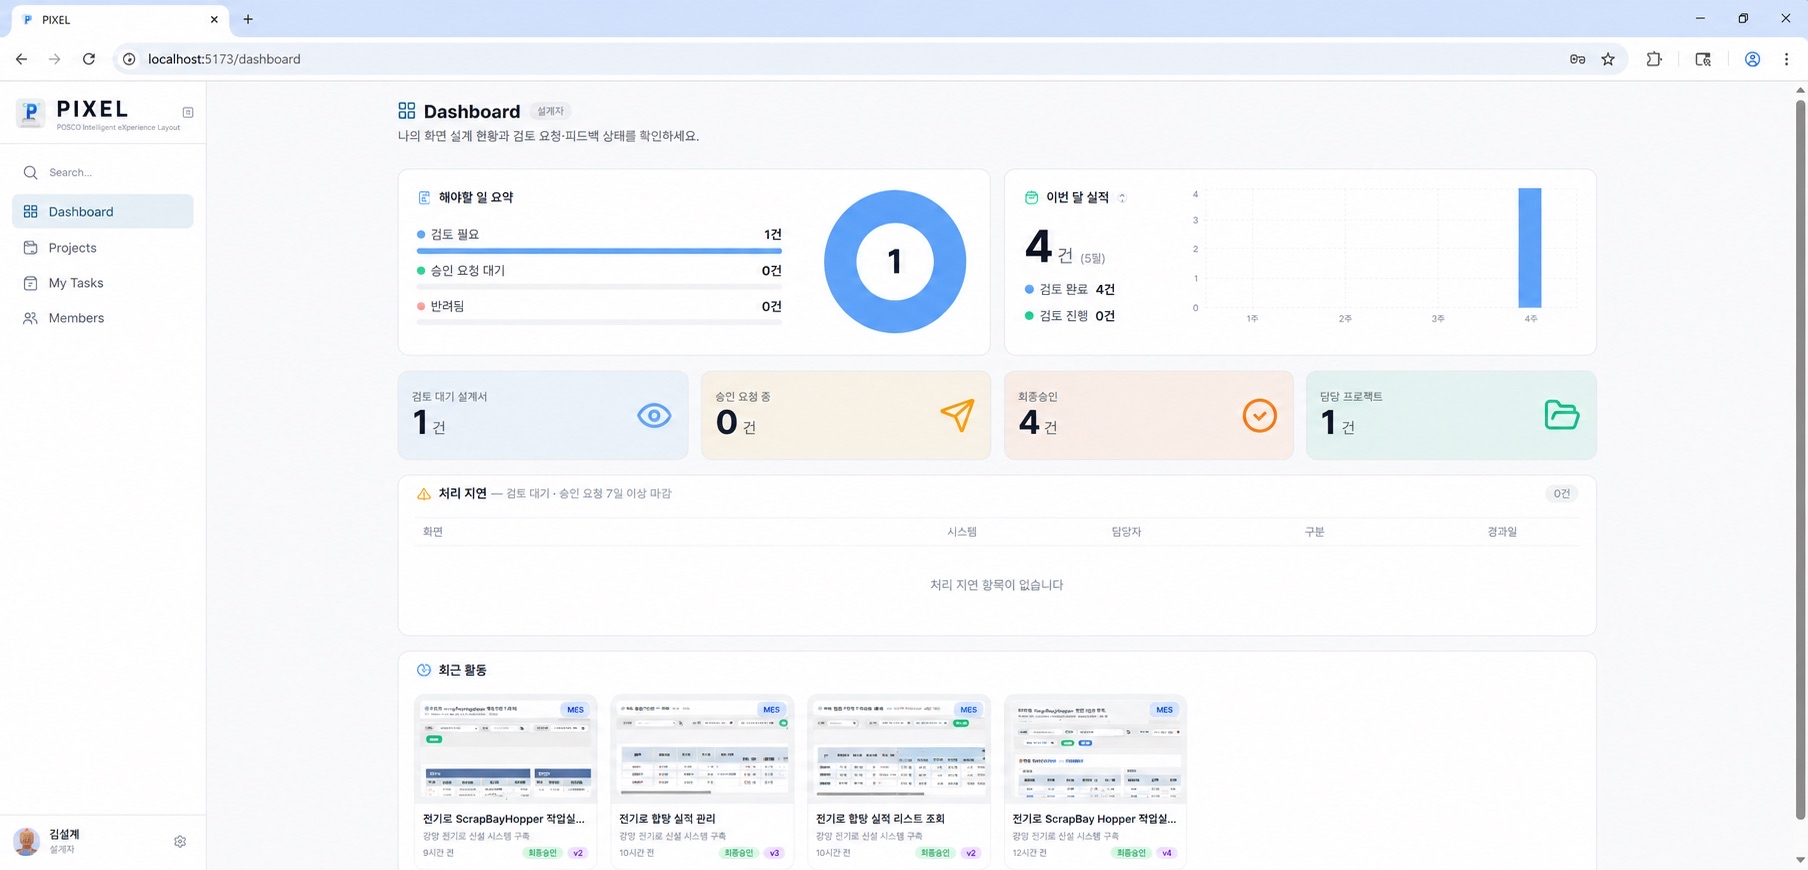
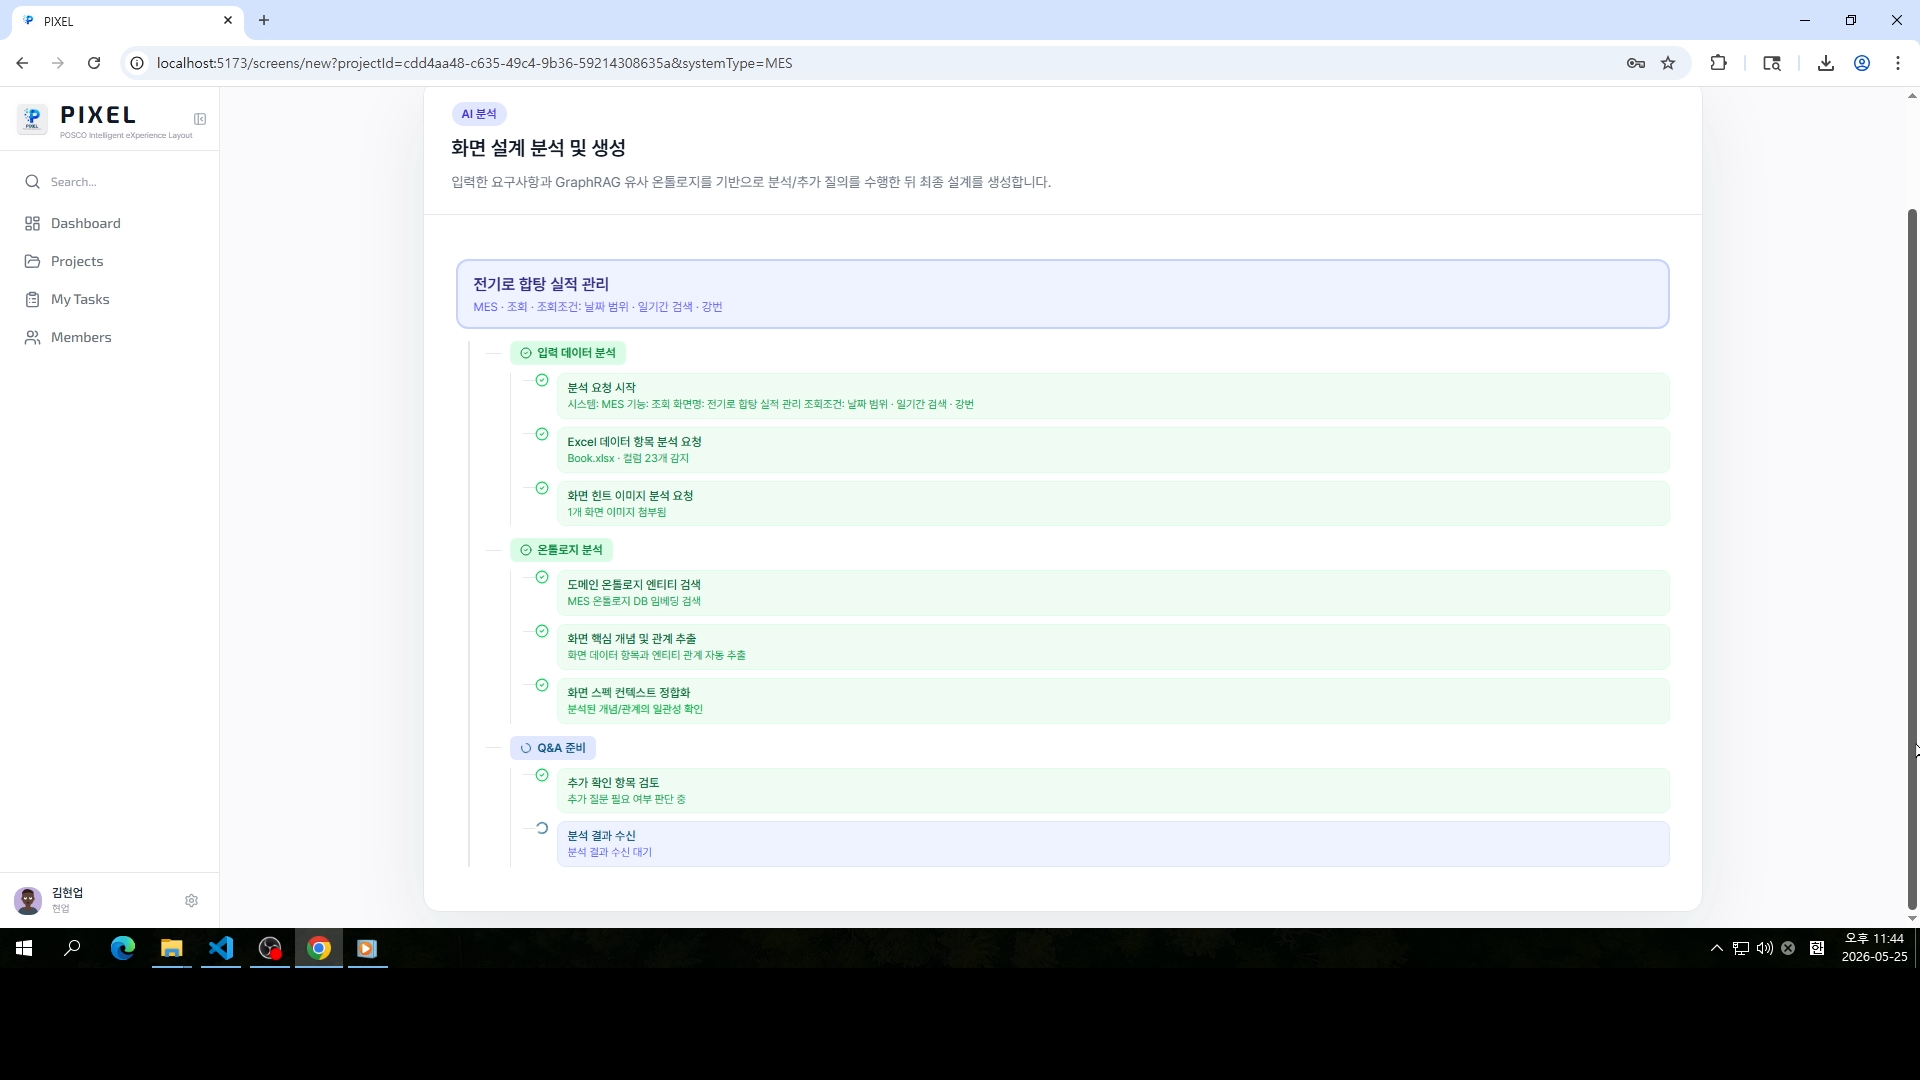
11페이지 수정

diff --git a/index.html b/index.html
@@ -1113,6 +1113,11 @@
     align-items: center;
     justify-content: center;
     overflow: hidden;
+    transition: opacity 0.3s ease;
+  }
+  .effect-summary.is-idle {
+    opacity: 0;
+    pointer-events: none;
   }
   .effect-card {
     position: absolute;
@@ -1132,6 +1137,9 @@
     transform: translateX(80px) scale(0.96);
     transition: transform 0.42s ease, opacity 0.42s ease, box-shadow 0.42s ease;
     pointer-events: none;
+  }
+  .effect-summary.is-idle .effect-card {
+    display: none;
   }
   .effect-card.active {
     opacity: 1;
@@ -1190,7 +1198,7 @@
     margin-bottom: 12px;
   }
   .effect-metric {
-    font-size: 36px;
+    font-size: 54px;
     font-weight: 700;
     color: var(--navy);
     line-height: 1.1;
@@ -2537,7 +2545,7 @@
             </div>
             <div class="journey-shot">
               <img src="./image/screenshot_10.png" alt="작업 스크린샷 10 반복">
-              <
+              
             </div>
             <div class="journey-shot">
               <img src="./image/screenshot_11.png" alt="작업 스크린샷 11 반복">
@@ -2789,8 +2797,13 @@
   }
 
   function renderImpactCards(direction = 'next') {
+    const impactSummary = document.querySelector('#slide-09 .effect-summary');
+    if (impactSummary) {
+      impactSummary.classList.toggle('is-idle', impactStep < 0);
+    }
     impactCards.forEach((card, index) => {
       if (!card) return;
+      card.style.display = impactStep < 0 ? 'none' : 'flex';
       card.classList.remove('active', 'exit-left', 'exit-right');
       if (index !== impactStep) {
         setImpactCardMetricState(card, true);